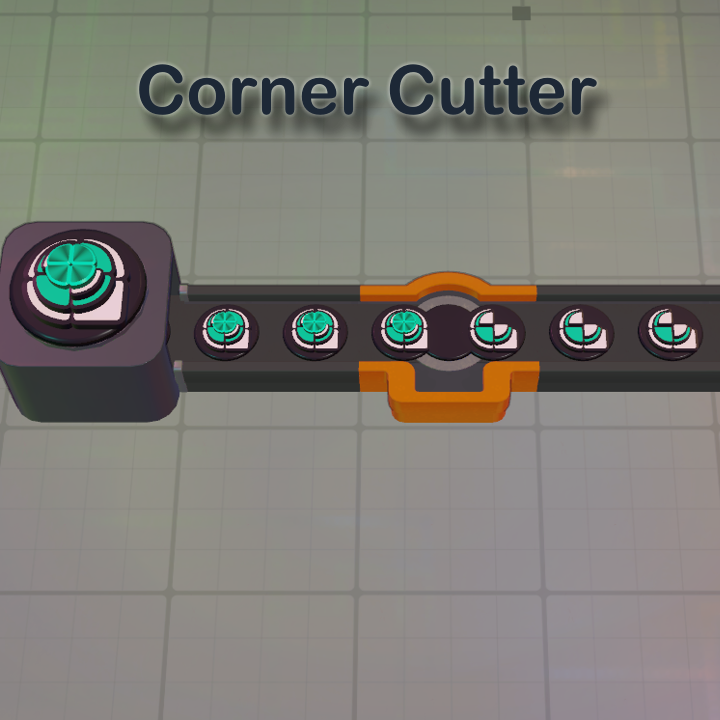
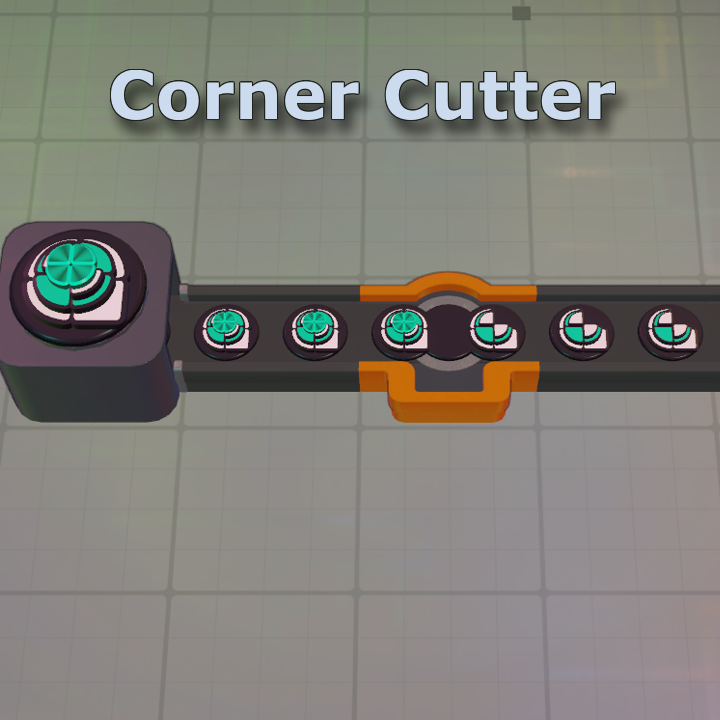
Update CornerCutter
- Changed preview photo
- Fixed shop problem (by patching ShapeShifter)
- Fixed shape preview

Changed region(s): [[0.1528, 0.0917, 0.8861, 0.2139]]

diff --git a/CornerCutter/CornerCutterMod.cs b/CornerCutter/CornerCutterMod.cs
@@ -1,27 +1,75 @@
-using System;
-using Core.Collections;
+using Core.Collections;
 using Core.Localization;
+using Cysharp.Threading.Tasks;
 using Game.Core.Research;
+using Game.Orchestration;
 using JetBrains.Annotations;
+using MonoMod.RuntimeDetour;
 using ShapezShifter.Flow;
 using ShapezShifter.Flow.Atomic;
 using ShapezShifter.Flow.Research;
 using ShapezShifter.Flow.Toolbar;
 using ShapezShifter.Kit;
+using ShapezShifter.SharpDetour;
 using ShapezShifter.Textures;
+using System;
 using UnityEngine;
 using ILogger = Core.Logging.ILogger;
 using Renderer = CornerCutterSimulationRenderer;
-using Simulation = CornerCutterSimulation;
 using RendererData = ICornerCutterDrawData;
+using Simulation = CornerCutterSimulation;
 
 [UsedImplicitly]
 public class CornerCuttersMod : IMod
 {
+    public static ILogger logger;
+
+    private Hook UBHook;
+    private Hook GameInitHook;
+
+    GameImageId shopImageId;
+    Sprite shopImage;
+
     public CornerCuttersMod(ILogger logger)
     {
+        CornerCuttersMod.logger = logger;
+
+        //var d = delegate (Func<GameData, GameImageId, Sprite> orig, GameData self, GameImageId id) {
+        //    if (id.IsEmpty) { logger.Info.Log("GetImage id is null"); return null; } else { return orig(self, id); }
+        //};
+        //Func<Func<GameData, GameImageId, Sprite>, GameData, GameImageId, Sprite> ImageWrapper = d;
+        //ImageHook = new Hook(
+        //    typeof(GameData).GetMethod(nameof(GameData.GetImage), new[] { typeof(GameImageId) })!,
+        //    ImageWrapper);
+
+        GameInitHook = DetourHelper.CreatePostfixHook<GameOrchestrator, UniTask>(
+            original: orchestrator => orchestrator.InitializeMainMenu(),
+            postfix: (self, result) => {
+                GameData gameData = self.InitializationDependencyContainer.Resolve<IGameData>() as GameData;
+                gameData._Images.Add(shopImageId, shopImage);
+                return result;
+            });
+        UBHook = DetourHelper.CreatePostfixHook<ShapezShifter.Flow.Atomic.SideUpgradeBuilder, ScenarioId, ResearchProgression, ResearchSideUpgrade>(
+            original: (builder, scenarioId, progression) => builder.Build(scenarioId, progression),
+            postfix: (_, _, progression, upgrade) => {
+                if (!progression._ShopItems.Contains(upgrade))
+                {
+                    progression._ShopItems.Add(upgrade);
+                }
+                if (!progression._SideUpgradeCategories.Contains(upgrade.Category))
+                {
+                    progression._SideUpgradeCategories.Add(upgrade.Category);
+                }
+                return upgrade;
+            });
+
+        //SessionInitHook = DetourHelper.CreatePostfixHook<GameSessionOrchestrator, IGameStartOptions, GlobalsData, IGameData>(
+        //    original: (orchestrator, gameStartOptions, globals, gameData) => orchestrator.Init(gameStartOptions, globals, gameData),
+        //    postfix: GetSessionData);
+
         BuildingDefinitionGroupId groupId = new("CornerCutterGroup");
         BuildingDefinitionId definitionId = new("CornerCutter");
+        shopImageId = new GameImageId("CornerCutterShopImage");
 
         string titleId = "building-variant.cutter-corner.title";
         string titleDescription = "building-variant.cutter-corner.description";
@@ -33,11 +81,14 @@ public class CornerCuttersMod : IMod
             AssetBundleHelper.CreateForAssetBundleEmbeddedWithMod<CornerCuttersMod>("Resources/CornerCutter");
 
         string iconPath = modResourcesLocator.SubPath("CornerCutter_Icon.png");
+        Sprite icon = FileTextureLoader.LoadTextureAsSprite(iconPath, out _);
+        string shopImagePath = modResourcesLocator.SubPath("Preview.png");
+        shopImage = FileTextureLoader.LoadTextureAsSprite(shopImagePath, out _);
 
         IBuildingGroupBuilder cornerCutterGroup = BuildingGroup.Create(groupId)
            .WithTitle(titleId.T())
            .WithDescription(titleDescription.T())
-           .WithIcon(FileTextureLoader.LoadTextureAsSprite(iconPath, out _))
+           .WithIcon(icon)
            .AsNonTransportableBuilding()
            .WithPreferredPlacement(DefaultPreferredPlacementMode.LinePerpendicular)
            .WithDefaultStructureOverview();
@@ -71,13 +122,17 @@ public class CornerCuttersMod : IMod
            .Build();
     }
 
-    public void Dispose() { }
+    public void Dispose()
+    {
+        UBHook?.Dispose();
+        GameInitHook?.Dispose();
+    }
 
     private SideUpgradePresentationData CreateSideUpgradePresentationData(string titleId, string titleDescription)
     {
         return new SideUpgradePresentationData(
             new ResearchUpgradeId("CBCornerCutter"),
-            GameImageId.Empty,
+            shopImageId,
             GameVideoId.Empty,
             titleId.T(),
             titleDescription.T(),

diff --git a/CornerCutter/CornerCutterSimulationState.cs b/CornerCutter/CornerCutterSimulationState.cs
@@ -7,8 +7,8 @@ public class CornerCutterSimulationState : ISimulationState
     public readonly BeltLaneState InputLaneState = new();
     public readonly BeltLaneState OutputLaneState = new();
     public readonly BeltLaneState ProcessingLaneState = new();
-    public ShapeCollapseResult CurrentCollapseResult;
 
+    public ShapeCollapseResult CurrentCollapseResult;
     public ShapeCollapseResult CurrentWaste;
 
     public bool ProducingEmptyShape;

diff --git a/CornerCutter/ShapeOperationCornerCut.cs b/CornerCutter/ShapeOperationCornerCut.cs
@@ -21,7 +21,7 @@ public class ShapeOperationCornerCut : ShapeOperation<ShapeDefinition, ShapeCorn
             return false;
         }
         ShapeCornerCutResult shapeCutResult = Execute(shapeItem.Definition);
-        output1 = shapeCutResult.LeftSide != null ? ShapeRegistry.GetItem(shapeCutResult.LeftSide.Shape) : (IItem)null;
+        output1 = shapeCutResult.RightSide != null ? ShapeRegistry.GetItem(shapeCutResult.RightSide.Shape) : (IItem)null;
         return true;
     }
 